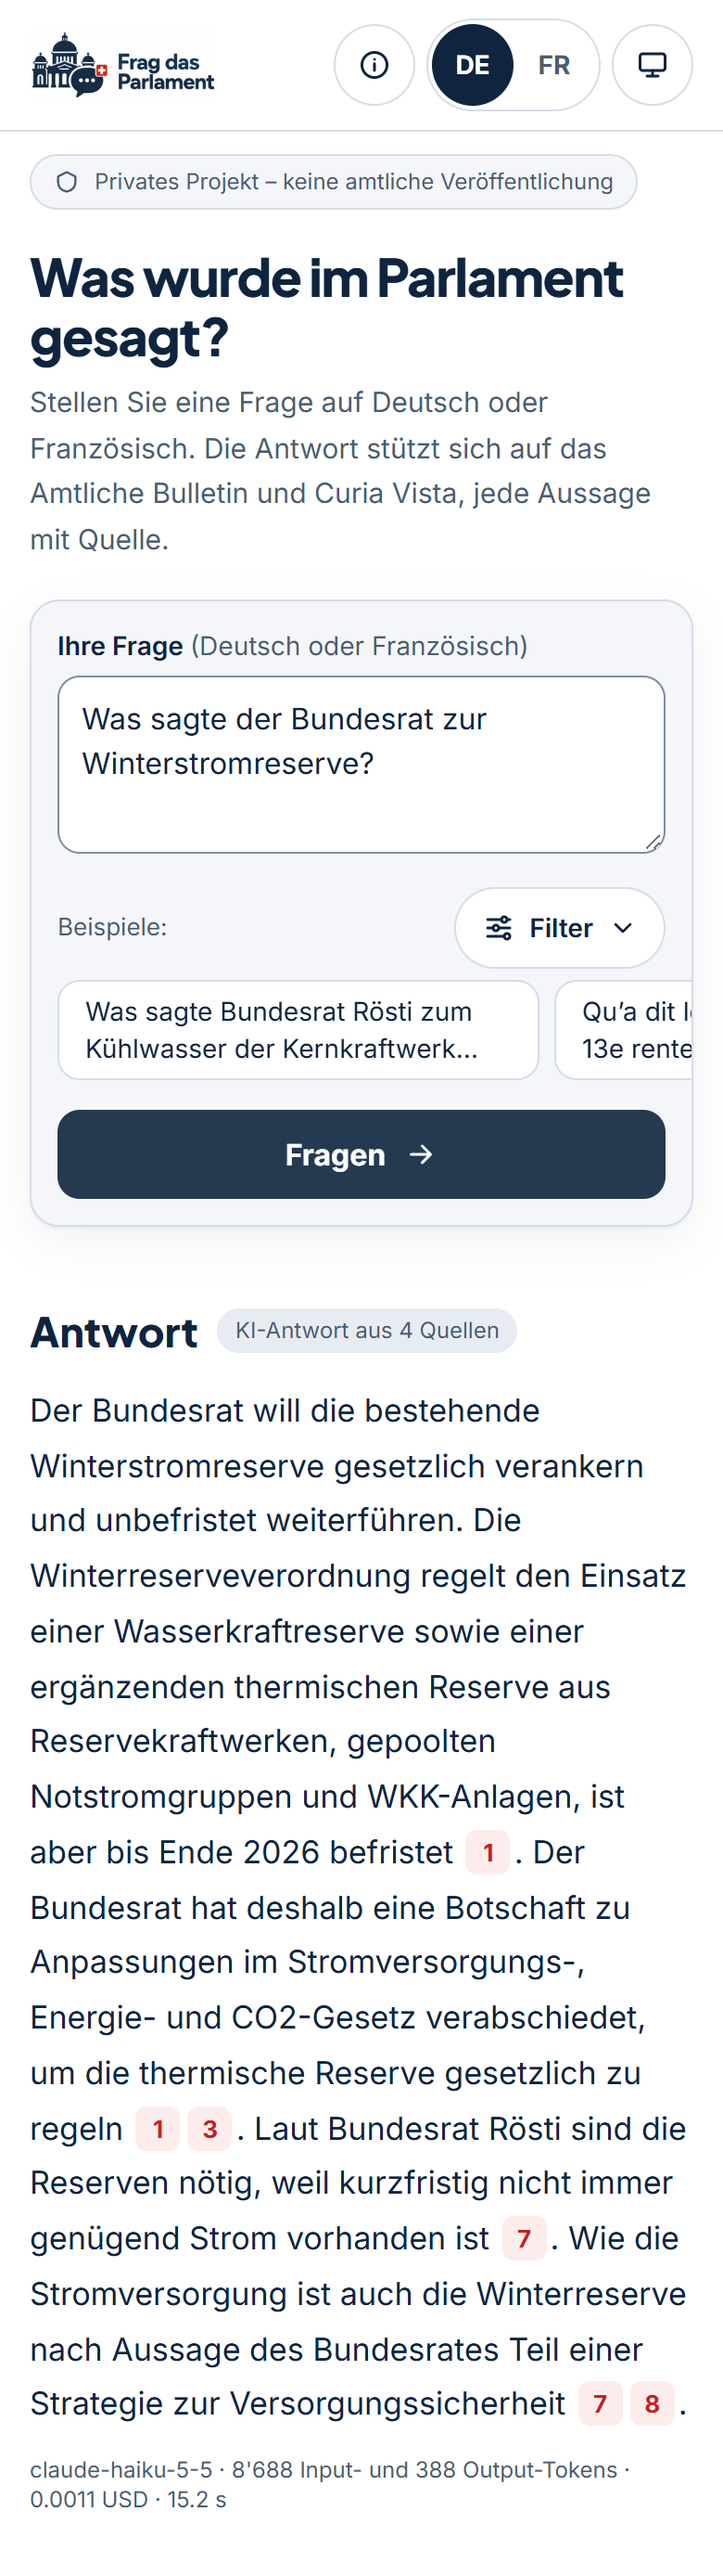
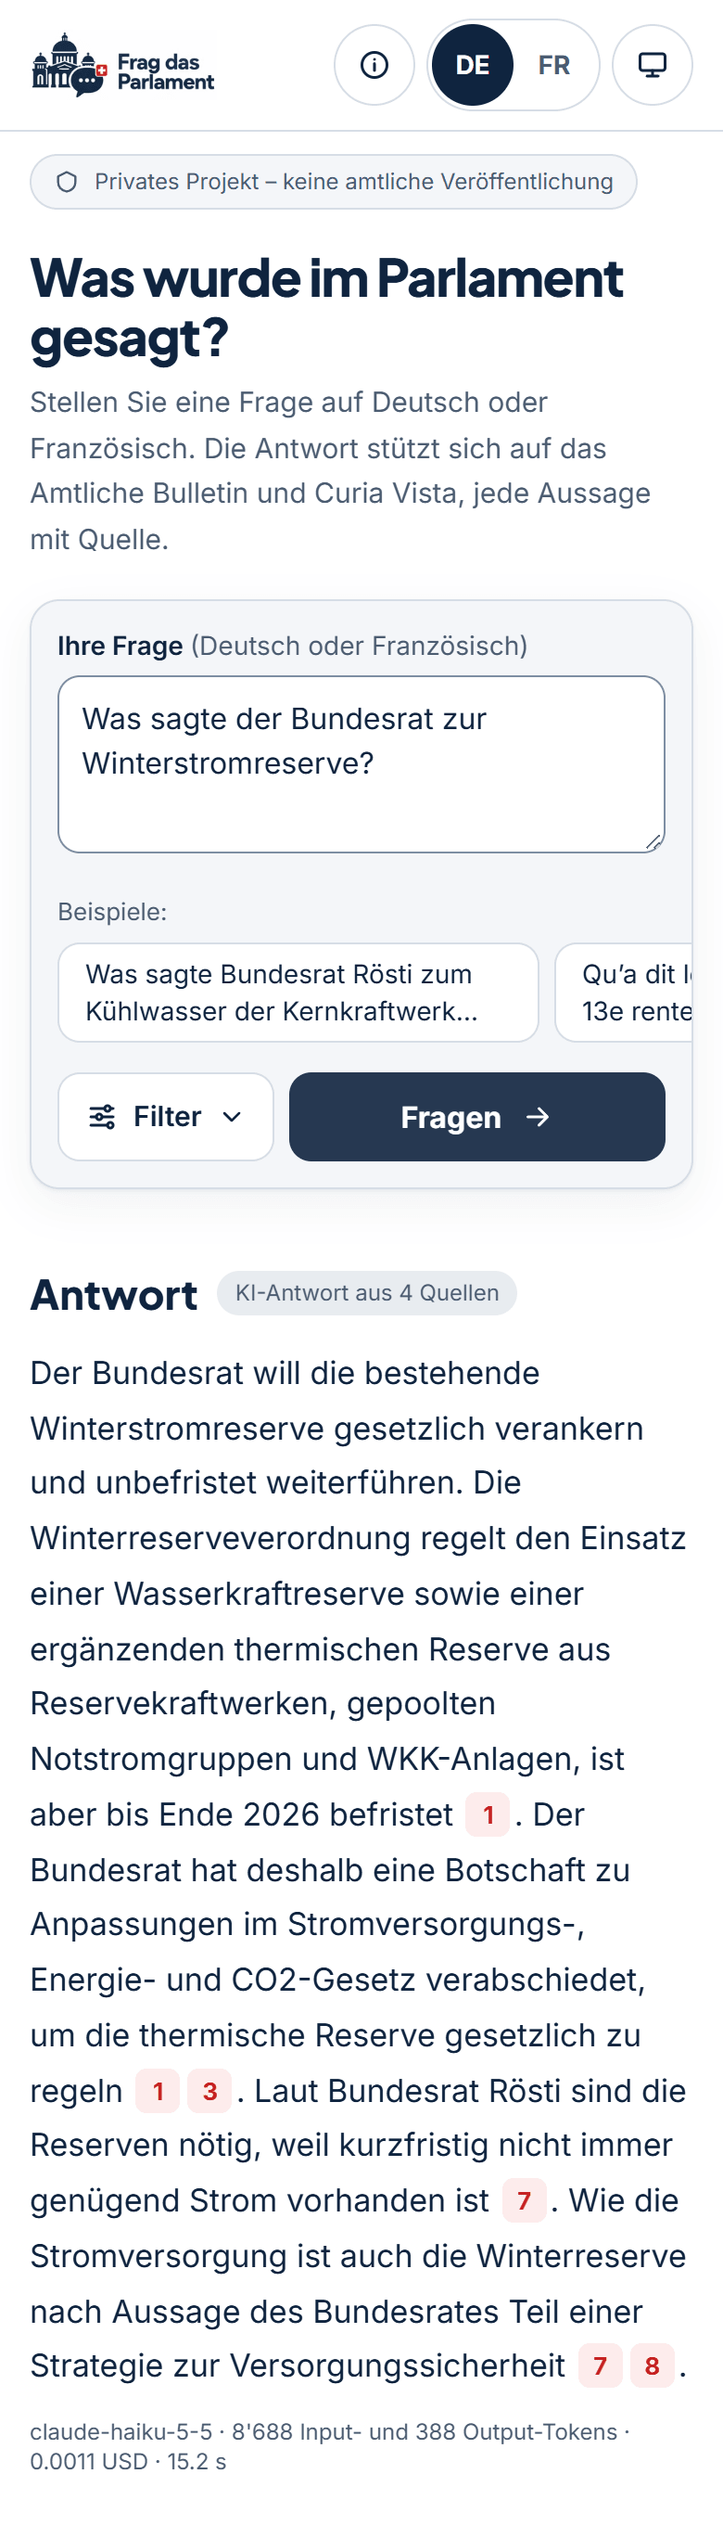
docs: record the variant A decision for the filter in spec 002

diff --git a/specs/002-redesign/plan.md b/specs/002-redesign/plan.md
@@ -120,7 +120,7 @@ public/                Favicon, Apple-Touch-Icon, Web-Manifest
   | dunkel | 100 | 100 | 100 | 100 | 0.8 s | 0.8 s | 0 ms | 0.007 |
 
   Ziele der Spec: Performance ≥ 90, Accessibility ≥ 95, Best Practices ≥ 95; erfüllt. Gemessen wird die Startseite; Antwort, Fehler und Dialog prüft axe in den Tests.
-- **Grösse des Builds:** Ausgangswert vor dem Redesign (gemessen in Task 7.1, `vite build`): JavaScript 232.4 kB (gzip 73.2 kB), CSS 15.8 kB (gzip 4.0 kB), zusammen **77.2 kB gzip**. Richtwert: höchstens 20 % mehr, also 92.6 kB gzip (Qualität geht vor, Überschreitung begründen). Schriften und Bilder werden separat gemessen. Nach Task 7.1: JavaScript gzip 73.2 kB, CSS gzip 7.1 kB (die `@font-face`-Regeln aller Zeichensätze), zusammen 80.3 kB (+4 %). Nach Task 7.2: JavaScript gzip 74.4 kB, CSS gzip 7.4 kB, zusammen 81.8 kB (+6 %); dazu die Logo-Dateien (WebP je 6.7 kB). Nach Task 7.3: JavaScript gzip 75.3 kB, CSS gzip 7.4 kB, zusammen 82.7 kB (+7 %); `index.html` mit dem Script gegen Aufblitzen 0.9 kB gzip. Nach Task 7.4: JavaScript gzip 78.0 kB, CSS gzip 7.7 kB, zusammen 85.7 kB (+11 %); der Zuwachs sind vor allem die beiden Wörterbücher. Nach Task 7.5: JavaScript gzip 78.7 kB, CSS gzip 7.7 kB, zusammen 86.4 kB (+12 %). Nach Task 7.6: JavaScript gzip 80.1 kB, CSS gzip 8.1 kB, zusammen 88.2 kB (+14 %). Nach Task 7.7 unverändert: 88.2 kB (+14 %); `axe-core` ist nur eine Dev-Abhängigkeit. Nach Task 7.9: JavaScript gzip 80.5 kB, CSS gzip 8.4 kB, zusammen 88.9 kB (+15 %). Für Deutsch und Französisch lädt der Browser nur die lateinischen Schriftdateien: Inter 48 kB und Plus Jakarta Sans 27 kB (WOFF2); die übrigen Zeichensätze liegen im Build, werden aber nur bei Bedarf geladen.
+- **Grösse des Builds:** Ausgangswert vor dem Redesign (gemessen in Task 7.1, `vite build`): JavaScript 232.4 kB (gzip 73.2 kB), CSS 15.8 kB (gzip 4.0 kB), zusammen **77.2 kB gzip**. Richtwert: höchstens 20 % mehr, also 92.6 kB gzip (Qualität geht vor, Überschreitung begründen). Schriften und Bilder werden separat gemessen. Nach Task 7.1: JavaScript gzip 73.2 kB, CSS gzip 7.1 kB (die `@font-face`-Regeln aller Zeichensätze), zusammen 80.3 kB (+4 %). Nach Task 7.2: JavaScript gzip 74.4 kB, CSS gzip 7.4 kB, zusammen 81.8 kB (+6 %); dazu die Logo-Dateien (WebP je 6.7 kB). Nach Task 7.3: JavaScript gzip 75.3 kB, CSS gzip 7.4 kB, zusammen 82.7 kB (+7 %); `index.html` mit dem Script gegen Aufblitzen 0.9 kB gzip. Nach Task 7.4: JavaScript gzip 78.0 kB, CSS gzip 7.7 kB, zusammen 85.7 kB (+11 %); der Zuwachs sind vor allem die beiden Wörterbücher. Nach Task 7.5: JavaScript gzip 78.7 kB, CSS gzip 7.7 kB, zusammen 86.4 kB (+12 %). Nach Task 7.6: JavaScript gzip 80.1 kB, CSS gzip 8.1 kB, zusammen 88.2 kB (+14 %). Nach Task 7.7 unverändert: 88.2 kB (+14 %); `axe-core` ist nur eine Dev-Abhängigkeit. Nach Task 7.9: JavaScript gzip 80.4 kB, CSS gzip 8.3 kB, zusammen 88.7 kB (+15 %). Für Deutsch und Französisch lädt der Browser nur die lateinischen Schriftdateien: Inter 48 kB und Plus Jakarta Sans 27 kB (WOFF2); die übrigen Zeichensätze liegen im Build, werden aber nur bei Bedarf geladen.
 
 ## 10. Risiken
 
@@ -152,4 +152,4 @@ public/                Favicon, Apple-Touch-Icon, Web-Manifest
 | 2026-11-18 | Task 7.8, Abschluss: Demo auf dem Server aktualisiert (Sandro). Von aussen geprüft: neues Bundle, Script gegen Aufblitzen, `manifest.webmanifest` als `application/manifest+json`, `robots.txt`, `/api/health` ok; Lighthouse gegen die Live-Demo mobil hell und dunkel je 100/100/100/100 (FCP und LCP 0.8 s). Screenshots im README mit echten Antworten der Demo (je eine Frage auf Deutsch und Französisch, zusammen rund 0.002 USD), für die weiteren Bilder dieselben Antworten. Dabei aufgefallen und behoben: Ein Satzzeichen nach einer Zitat-Marke konnte allein an den Zeilenanfang rutschen; `citationRuns` hängt es an die Marke und schützt das Leerzeichen davor. Spec 002 ist umgesetzt; `CLAUDE.md` nennt keine aktive Spec mehr. | Spec 002 abgeschlossen. |
 | 2026-11-19 | Spec 002 wieder geöffnet (Version 1.1) für **Task 7.9**: Filter nach dem Vorbild von Entwurf B «Band» (Pille in der Zeile der Beispielfragen, Pfeil und Zahl der aktiven Filter, Animation beim Auf- und Zuklappen, am Desktop vier Felder in einer Zeile), US-15. Keine eigene Spec 003, weil die Änderung zum selben Redesign gehört. | Sandro. |
 | 2026-11-19 | **Keine PWA mit Service Worker.** Das Manifest mit `display: standalone` und Icons macht die Seite schon installierbar (Android, Chrome/Edge, «Zum Home-Bildschirm» auf dem iPhone). Ein Service Worker brächte offline kaum etwas, weil jede Antwort Server, Datenbank und Modell braucht; der Start ist mit 0.8 s schon schnell. Dafür birgt ein Cache das Risiko, dass nach einem Update alte Versionen ausgeliefert werden. In «Offene Fragen» vermerkt. | Sandro, nach Abwägung von Nutzen und Wartung. |
-| 2026-11-19 | Task 7.9: Die Filter-Pille steht rechts neben «Beispiele:», auf dem Handy und am Desktop, nicht am Ende der Beispiele wie in Entwurf B. Am Ende der Beispiele hätte sie am Desktop eine Spalte belegt (jede Beispielfrage auf eigener Zeile) und wäre auf dem Handy in der wischbaren Reihe verschwunden. Auf- und Zuklappen über Grid-Zeilen `0fr` ↔ `1fr` (200 ms, reines CSS, in beide Richtungen); zugeklappt `inert`. Die Zahl der aktiven Filter steht als Abzeichen auf der Pille, für Screenreader als Text («Filter, 2 aktiv»). Ab 768 px vier Spalten, die Auswahlfelder breiter als die Datumsfelder (1.3 : 1), weil «Conseil des Etats» und «Tous les groupes» sonst abgeschnitten wurden. Kein Knopf «Filter zurücksetzen» (nicht in der Spec). Geprüft mit Edge bei 360, 768 und 1440 px, hell und dunkel, DE und FR: kein horizontales Scrollen, Pille auf Touch-Geräten 44 px hoch, Handy vier Zeilen, ab 768 px eine; Tab springt zugeklappt von der Pille direkt zu «Fragen»; bei reduzierter Bewegung sofort offen. README-Screenshots neu mit den gespeicherten Antworten aus 7.8 (keine Kosten). Spec 002 wieder umgesetzt (Version 1.1). | AK-15.1 bis AK-15.4. |
+| 2026-11-20 | Task 7.9: Zuerst wie geplant nach Entwurf B umgesetzt (Pille neben «Beispiele:» mit Abzeichen, vier Felder in einer Zeile). Nach Ansicht der Screenshots entschied Sandro: **nur der Pfeil bleibt, das Aussehen sonst wie Variante A.** Der Knopf «Filter» steht wieder neben «Fragen» und nennt die aktiven Filter im Text («Filter (2 aktiv)»), die Felder stehen am Desktop zu zweit. AK-15.1 und AK-15.3 entsprechend angepasst. Geblieben sind der Pfeil (dreht beim Öffnen) und das Auf- und Zuklappen über Grid-Zeilen `0fr` ↔ `1fr` (200 ms, reines CSS, beide Richtungen); zugeklappt ist der Bereich `inert`. Weil er im HTML vor dem Knopf steht und jsdom und user-event `inert` nicht kennen, überspringt der Tastaturtest Elemente in einem `inert`-Bereich ausdrücklich; im Browser geprüft. Geprüft mit Edge bei 360, 768 und 1440 px, hell und dunkel, DE und FR: kein horizontales Scrollen, Knopf «Fragen» auf dem Handy ohne Scrollen sichtbar, Tab überspringt die zugeklappten Felder, bei reduzierter Bewegung sofort offen. README-Screenshots neu mit den gespeicherten Antworten aus 7.8 (keine Kosten). Spec 002 wieder umgesetzt (Version 1.1). | Sandro; AK-15.1 bis AK-15.4. |

diff --git a/specs/002-redesign/spec.md b/specs/002-redesign/spec.md
@@ -104,9 +104,9 @@ Als Nutzerin will ich alles weiterhin tun können, was die bisherige Oberfläche
 ### US-15 Filter (Ergänzung, Version 1.1)
 Als Nutzerin will ich die Filter bei Bedarf schnell aufklappen, ohne dass sie sonst Platz brauchen.
 
-- AK-15.1: Der Knopf «Filter» steht als Pille in der Zeile der Beispielfragen (wie im Entwurf B «Band»), nicht mehr neben dem Knopf «Fragen». Er zeigt einen Pfeil, der beim Öffnen dreht, und die Zahl der aktiven Filter. Auf Touch-Geräten ist er mindestens 44 × 44 px gross (AK-11.1).
+- AK-15.1: Der Knopf «Filter» bleibt wie in Variante A neben dem Knopf «Fragen» und nennt die Zahl der aktiven Filter. Neu zeigt er einen Pfeil, der beim Öffnen dreht. Auf Touch-Geräten ist er mindestens 44 × 44 px gross (AK-11.1).
 - AK-15.2: Der Filterbereich klappt mit einer kurzen Animation auf und zu; bei `prefers-reduced-motion` ohne Animation (AK-13.3). Zugeklappt ist er für Tastatur und Screenreader nicht erreichbar; `aria-expanded` und `aria-controls` bleiben.
-- AK-15.3: Am Desktop stehen Rat, Fraktion, Von und Bis in einer Zeile, auf dem Handy untereinander. Kein horizontales Scrollen von 360 px bis 1440 px.
+- AK-15.3: Die Anordnung der Felder bleibt wie in Variante A: am Desktop zwei pro Zeile, auf dem Handy untereinander. Kein horizontales Scrollen von 360 px bis 1440 px.
 - AK-15.4: Die Filter wirken wie bisher (AK-14.1); axe meldet keine Verstösse, auch mit offenen Filtern (AK-13.1).
 
 ## 6. Qualitätsziele

diff --git a/README.md b/README.md
@@ -318,7 +318,7 @@ Die Antwort enthält `answer` mit den Belegen [n], `sources` (pro Nummer Dokumen
 
 ### Web-UI
 
-Die Oberfläche (http://127.0.0.1:8080) zeigt Frage mit Beispielen, aufklappbare Filter (Rat, Fraktion, Zeitraum; die Zahl der aktiven Filter steht auf dem Knopf), die Antwort mit klickbaren Zitat-Marken und die Quellen mit Redner, Rat, Datum, Geschäftsnummer, Ausschnitt und Link auf parlament.ch, dazu Datenquelle und Lizenz.
+Die Oberfläche (http://127.0.0.1:8080) zeigt Frage mit Beispielen, aufklappbare Filter (Rat, Fraktion, Zeitraum), die Antwort mit klickbaren Zitat-Marken und die Quellen mit Redner, Rat, Datum, Geschäftsnummer, Ausschnitt und Link auf parlament.ch, dazu Datenquelle und Lizenz.
 
 - **Kopfzeile:** Logo, Knopf «So funktioniert's» (Datenquelle, Vorgehen, Grenzen, Datenschutz), Umschalter DE/FR und Darstellung (Hell, Dunkel, wie System). Beide Einstellungen bleiben im Browser gespeichert; ohne Wahl gelten Sprache und Farbschema des Systems.
 - **Sprache:** Die Oberfläche spricht Deutsch oder Französisch, auch die Meldungen der API (über den Fehlercode). Die Antwort kommt immer in der Sprache der Frage.

diff --git a/specs/002-redesign/tasks.md b/specs/002-redesign/tasks.md
@@ -16,4 +16,4 @@ Immer nur einen Task gleichzeitig bearbeiten. Ein Task ist erst erledigt, wenn d
 
 ## Phase 7 – Ergänzung (Version 1.1)
 
-- [x] 7.9 Filter nach Entwurf B: Knopf als Pille in der Zeile der Beispielfragen mit Pfeil und Zahl der aktiven Filter, Animation beim Auf- und Zuklappen (ohne bei reduzierter Bewegung), am Desktop vier Felder in einer Zeile; Tests (Bedienung, axe mit offenen Filtern), Prüfung mit Edge bei 360, 768 und 1440 px hell und dunkel, Screenshots im README falls sich die Startseite sichtbar ändert; danach Spec 002 wieder als umgesetzt markieren (AK-15.1 bis AK-15.4)
+- [x] 7.9 Filter: Pfeil am Knopf «Filter», der beim Öffnen dreht, und Animation beim Auf- und Zuklappen (ohne bei reduzierter Bewegung); Aussehen und Anordnung sonst wie Variante A (der Umbau nach Entwurf B wurde nach Ansicht verworfen); Tests (Bedienung, axe mit gesetzten Filtern), Prüfung mit Edge bei 360, 768 und 1440 px hell und dunkel, neue Screenshots im README; Spec 002 wieder als umgesetzt markiert (AK-15.1 bis AK-15.4)
